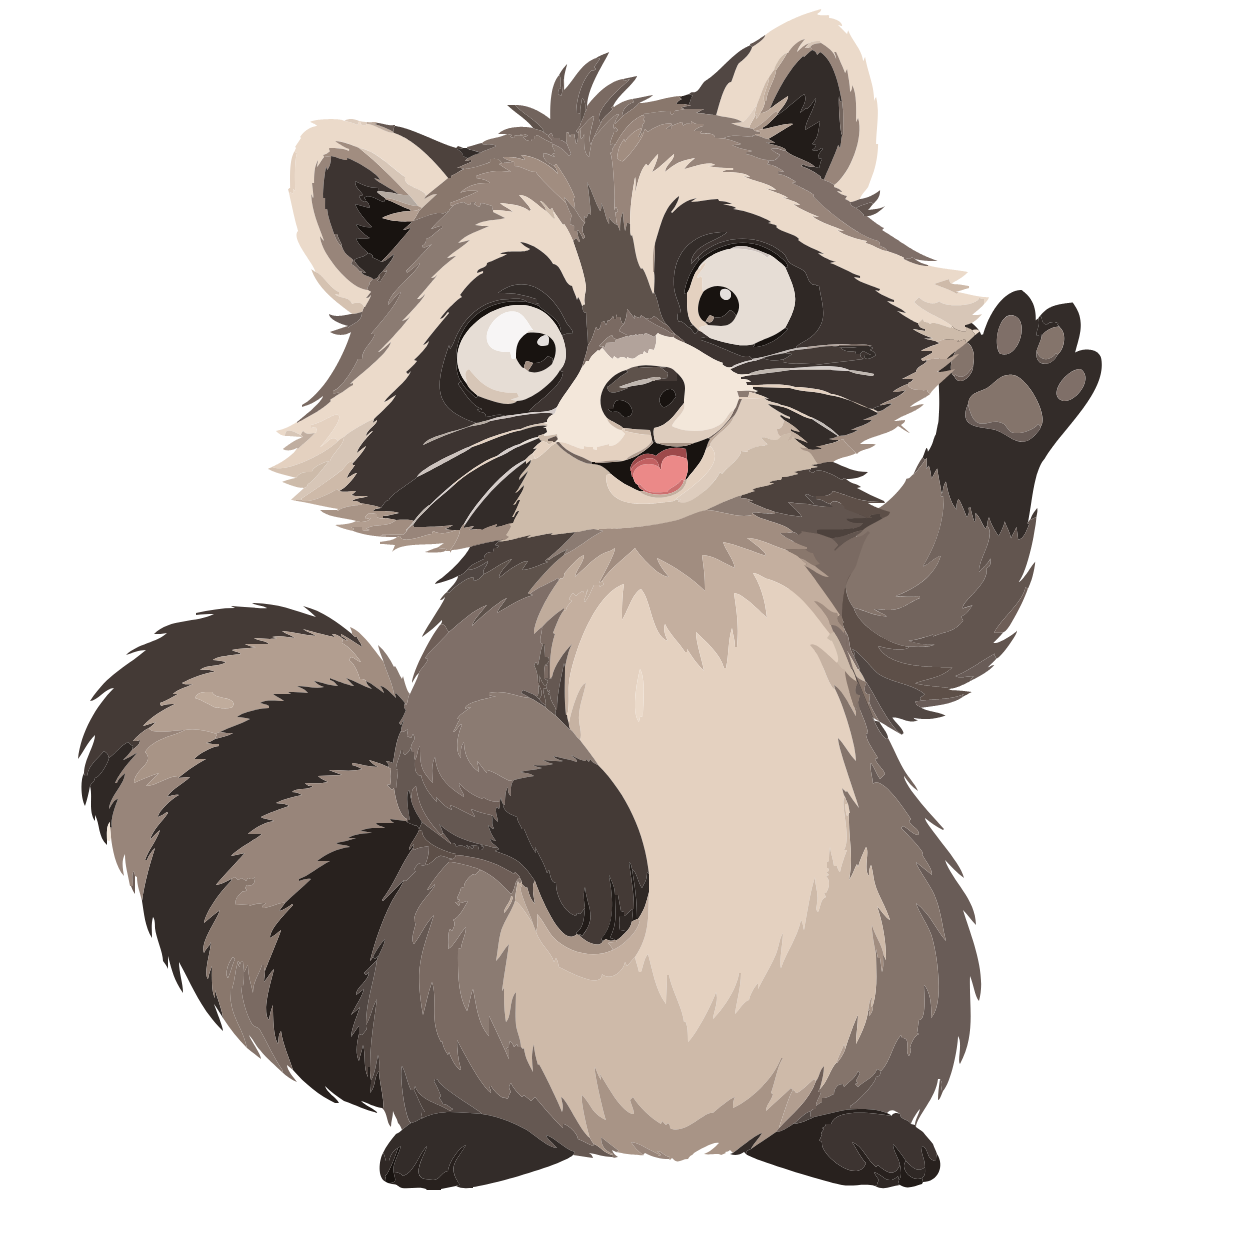
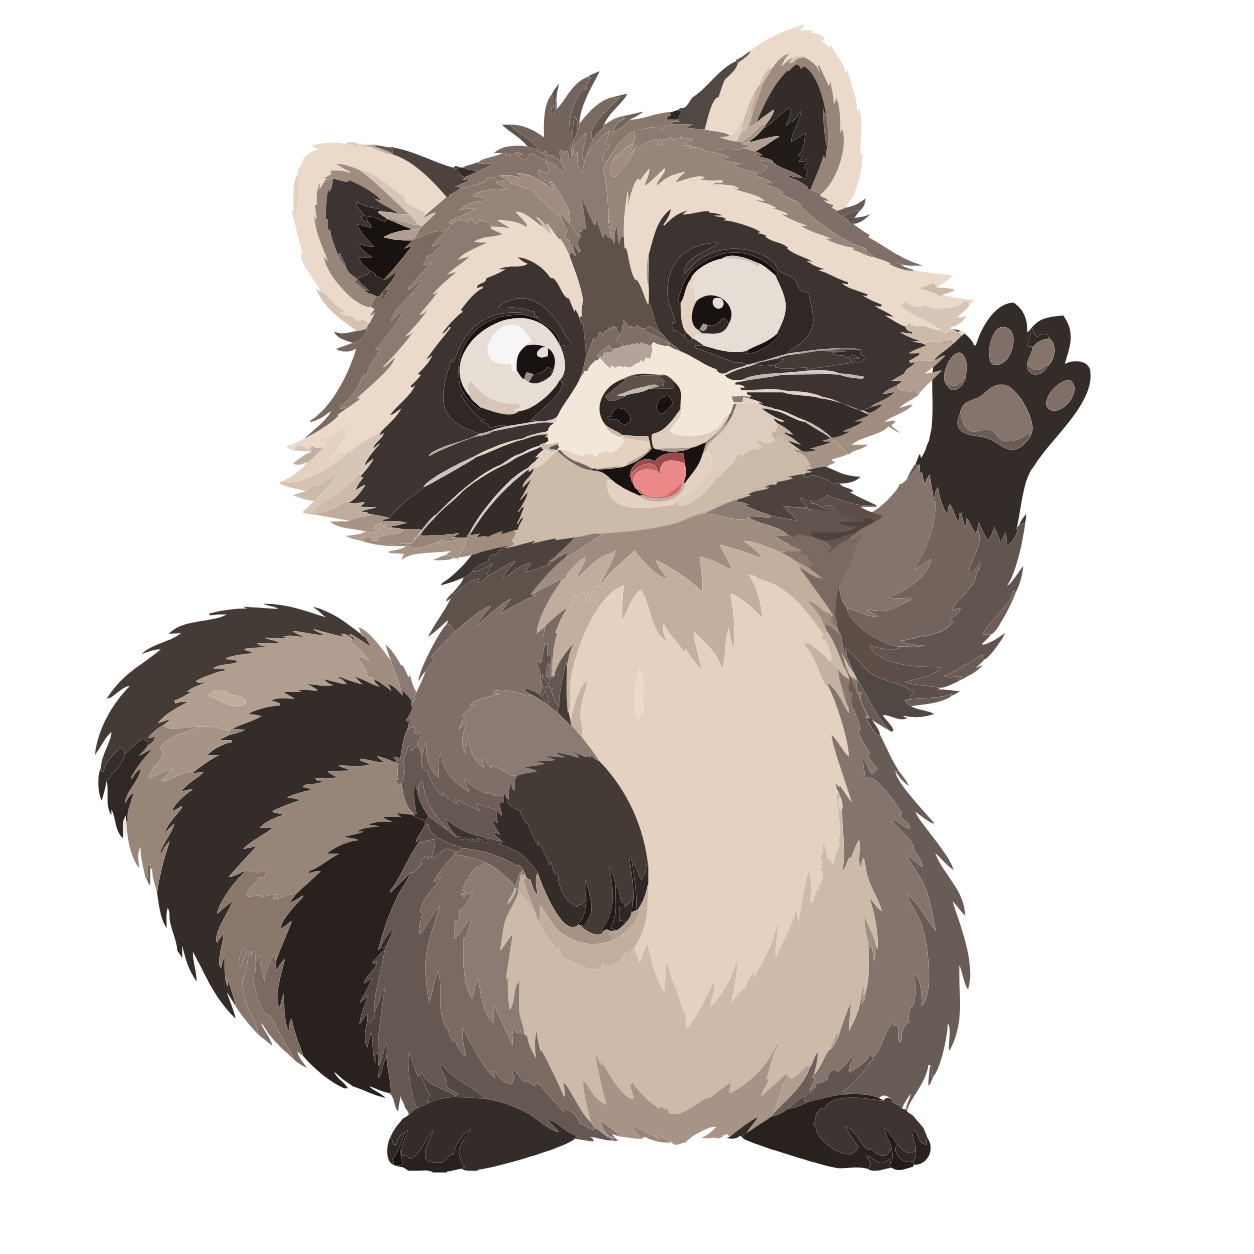
Animate Rocky head with padded viewBox

diff --git a/svg_rigger/rig.py b/svg_rigger/rig.py
@@ -18,6 +18,36 @@ def resolve(base, value):
     return path if path.is_absolute() else (base / path).resolve()
 
 
+def padded_canvas(canvas, padding):
+    """Expand the viewBox without changing the coordinate system of rig parts."""
+    if padding is None:
+        return canvas
+    try:
+        padding = float(padding)
+    except (TypeError, ValueError) as exc:
+        raise ValueError("viewbox_padding must be a non-negative number") from exc
+    if padding < 0:
+        raise ValueError("viewbox_padding must be a non-negative number")
+    values = str(canvas.get("viewBox", "")).replace(",", " ").split()
+    if len(values) != 4:
+        raise ValueError("viewbox_padding requires a four-number SVG viewBox")
+    try:
+        x, y, width, height = map(float, values)
+    except ValueError as exc:
+        raise ValueError("viewbox_padding requires a numeric SVG viewBox") from exc
+    expanded = dict(canvas)
+    expanded["viewBox"] = " ".join(
+        f"{value:g}"
+        for value in (
+            x - padding,
+            y - padding,
+            width + 2 * padding,
+            height + 2 * padding,
+        )
+    )
+    return expanded
+
+
 def animation_attributes(animation):
     kind = animation.get("type")
     values = animation.get("values")
@@ -129,6 +159,7 @@ def build_rig(config_path, output_path):
         loaded.append((part, part_path, part_root))
 
     ET.register_namespace("", SVG_NS)
+    canvas = padded_canvas(canvas, config.get("viewbox_padding"))
     root = ET.Element(f"{{{SVG_NS}}}svg", canvas)
     if config.get("title"):
         ET.SubElement(root, f"{{{SVG_NS}}}title").text = str(config["title"])
@@ -165,6 +196,7 @@ def build_rig(config_path, output_path):
         "parts": len(parts),
         "animations": sum(bool(item.get("animation")) for item in parts),
         "bytes": output_path.stat().st_size,
+        "viewBox": canvas.get("viewBox"),
     }
 
 

diff --git a/tests/test_pipeline.py b/tests/test_pipeline.py
@@ -57,6 +57,7 @@ class PipelineTests(unittest.TestCase):
             cut_parts(EXAMPLE / "cut.json", parts)
             config = {
                 "title": "Test rig",
+                "viewbox_padding": 5,
                 "parts": [
                     {"id": "body", "file": str(parts / "body.svg")},
                     {
@@ -78,6 +79,8 @@ class PipelineTests(unittest.TestCase):
 
             self.assertEqual(report["parts"], 2)
             self.assertEqual(report["animations"], 1)
+            self.assertEqual(report["viewBox"], "-5 -5 110 110")
+            self.assertEqual(ET.parse(output).getroot().get("viewBox"), "-5 -5 110 110")
             groups = {item.get("id") for item in elements(output, "g")}
             self.assertEqual(groups, {"body", "arm"})
             animations = elements(output, "animateTransform")

diff --git a/README.md b/README.md
@@ -19,7 +19,7 @@ sind hier kein Bestandteil des Kernablaufs.
 Der technische Grundablauf ist implementiert und mit einem kleinen
 Zwei-Teile-Beispiel sowie der realen Rocky-Datei getestet. Das Repository
 enthält Rockys Komplettfigur, die drei Inkscape-Clip-Pfade für Körper, Kopf und
-linken Arm, die Schnittkonfiguration und eine lauffähige Arm-Animation. Die
+linken Arm, die Schnittkonfiguration und lauffähige Kopf- und Arm-Animationen. Die
 Bewegungsparameter sind ein technisch geprüfter Ausgangspunkt, noch keine
 abschließende gestalterische Entscheidung.
 
@@ -204,7 +204,10 @@ svg-rigger-inspect work/parts/*.svg work/rocky_animated.svg
 Unterstützt werden deklarative SVG-Transformationen vom Typ `rotate`,
 `translate` und `scale`. `parent` kann eine andere Part-ID referenzieren; dann
 erbt das Kind deren Transformation. Die Pivots müssen derzeit manuell im
-ViewBox-Koordinatensystem bestimmt werden.
+ViewBox-Koordinatensystem bestimmt werden. Optional erweitert
+`viewbox_padding` die ViewBox gleichmäßig auf allen vier Seiten, ohne die
+Koordinaten oder Geometrie der Teile zu verändern. Das schafft Bewegungsraum
+für Teile, die im Ausgangsbild dicht am Rand liegen.
 
 ## Minimales reproduzierbares Beispiel
 
@@ -241,13 +244,15 @@ subtrahiert. Der Arm liegt entsprechend der gelieferten Inkscape-Z-Order hinter
 dem Körper. Seine Ausgangsrotation und sein Drehpunkt wurden aus der
 Teilegruppe übernommen.
 
-<img src="examples/rocky/output/rocky_animated_preview.png" width="420" alt="Aus Masken geschnittener Rocky mit separat animierbarem linken Arm">
+<img src="examples/rocky/output/rocky_animated_preview.png" width="420" alt="Aus Masken geschnittener Rocky mit separat animierbarem Kopf und linkem Arm">
 
 Das versionierte [animierte SVG](examples/rocky/output/rocky_animated.svg)
-enthält 372 Pfade, 51 Füllwerte, drei Teilegruppen und eine SMIL-Animation.
-Zwei in Edge gerenderte Zeitpunkte unterschieden sich ausschließlich im
-Arm-Bereich. Eine zusätzliche Kopfrotation wurde nicht aktiviert, weil bereits
-±1,5° die oberen Haarspitzen außerhalb der vorhandenen ViewBox bewegt.
+enthält 372 Pfade, 51 Füllwerte, drei Teilegruppen und zwei SMIL-Animationen.
+Der linke Arm rotiert zwischen −5° und 8°, der Kopf langsamer zwischen −1,5°
+und 1,5°. Für die Kopfbewegung wurde die ViewBox mit 20 Einheiten Rand von
+`0 0 1254 1254` auf `-20 -20 1294 1294` erweitert. Zwei in Edge gerenderte
+Extrempositionen zeigen weder abgeschnittene Haarspitzen noch abgeschnittene
+Armflächen.
 
 ## Technische Grenzen
 

diff --git a/docs/VALIDATION.md b/docs/VALIDATION.md
@@ -134,22 +134,25 @@ Schnittergebnisse mit `sample_step=0.5`, `precision=2`:
 | Kopf | 458.422 | 204 | 51 | 142 | 62 |
 | linker Arm | 179.699 | 39 | 21 | 18 | 21 |
 
-Das Ergebnis `examples/rocky/output/rocky_animated.svg` hat 768.967 Bytes,
-372 Pfade, 51 Füllwerte, drei Gruppen und eine Armrotation. Der Kopf wurde nach
-einem Render-Versuch absichtlich statisch gelassen: Eine Bewegung von ±1,5°
-schnitt obere Haarspitzen an der unveränderten ViewBox ab. Der Arm wurde hinter
-dem Körper einsortiert, entsprechend der gelieferten Inkscape-Z-Order.
+Das Ergebnis `examples/rocky/output/rocky_animated.svg` hat 769.260 Bytes,
+372 Pfade, 51 Füllwerte, drei Gruppen sowie je eine Rotation für Kopf und Arm.
+Die optionale Rig-Einstellung `viewbox_padding: 20` erweitert die ViewBox von
+`0 0 1254 1254` auf `-20 -20 1294 1294`, ohne Teilekoordinaten zu verändern.
+Damit bleibt die Kopfbewegung von ±1,5° einschließlich der oberen Haarspitzen
+sichtbar. Der Arm wurde hinter dem Körper einsortiert, entsprechend der
+gelieferten Inkscape-Z-Order.
 
 SHA-256:
 
 - animiertes SVG:
[2 lines of base64/hex data omitted]
 - Vorschau-PNG:
[2 lines of base64/hex data omitted]
 
-Zwei Headless-Edge-Frames bei 100 ms und 900 ms unterschieden sich in 43.794
-Pixeln. Die Differenz-Bounding-Box `(789, 294)–(1152, 736)` umfasst nur den
-linken Arm; Kopf und Körper blieben unverändert.
+Zwei Headless-Edge-Frames bei 100 ms und 1.600 ms unterschieden sich in 127.308
+Pixeln. Die Differenz-Bounding-Box `(279, 24)–(1091, 744)` umfasst die erwarteten
+Kopf- und Armbereiche. Beide gerenderten Positionen bleiben vollständig in der
+erweiterten ViewBox sichtbar; der Körper bleibt statisch.
 
 ## Noch nicht validiert
 
